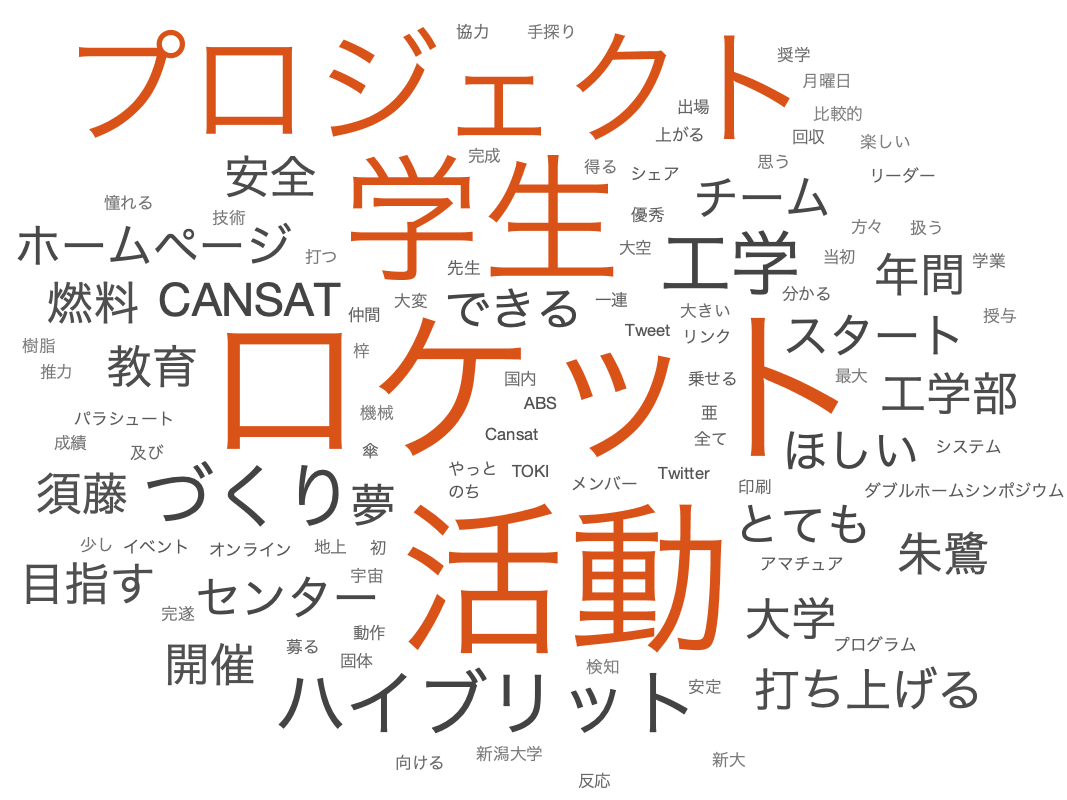
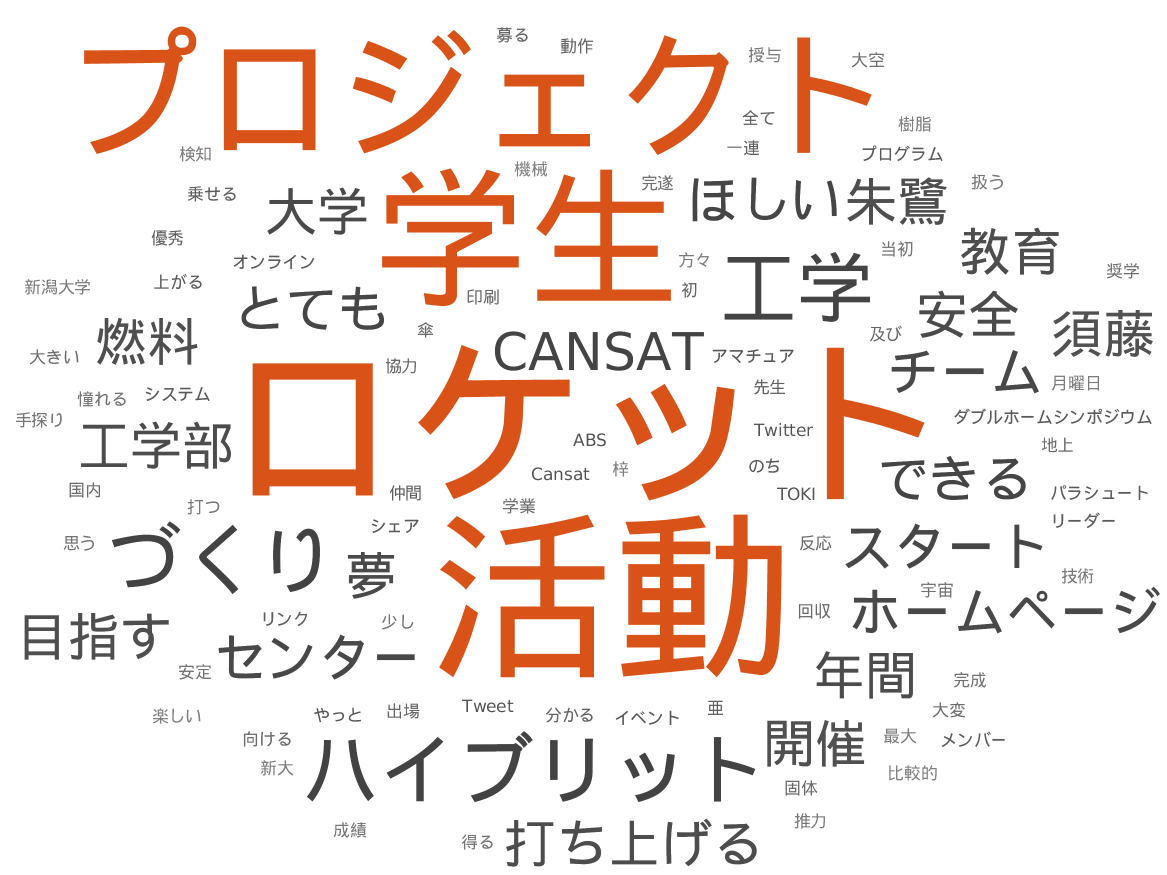
[ci skip]

diff --git a/docs/_posts/2021-08-26-沈み込み帯における二酸化炭素の固定化がマントルの破壊を引き起こす－炭素の循環とプレート境界での地震現象との関係性を示唆－.md b/docs/_posts/2021-08-26-沈み込み帯における二酸化炭素の固定化がマントルの破壊を引き起こす－炭素の循環とプレート境界での地震現象との関係性を示唆－.md
@@ -1,0 +1,7 @@
+---
+layout: post
+title: 沈み込み帯における二酸化炭素の固定化がマントルの破壊を引き起こす－炭素の循環とプレート境界での地震現象との関係性を示唆－
+---
+Autogenerated Word Cloud.
+Source\: [https://www.niigata-u.ac.jp/news/2021/92848/](https://www.niigata-u.ac.jp/news/2021/92848/)
+![WordCloud]({{ site.baseurl }}/assets/d47e320150e877a6f715b0be6292e48d.png)

diff --git a/docs/_posts/2021-08-30-卵巣がんの抗がん剤耐性機序に関与する分子を同定－卵巣がん患者由来の3次元培養細胞を用いた新たな解析手法に基づく成果－.md b/docs/_posts/2021-08-30-卵巣がんの抗がん剤耐性機序に関与する分子を同定－卵巣がん患者由来の3次元培養細胞を用いた新たな解析手法に基づく成果－.md
@@ -1,0 +1,7 @@
+---
+layout: post
+title: 卵巣がんの抗がん剤耐性機序に関与する分子を同定－卵巣がん患者由来の3次元培養細胞を用いた新たな解析手法に基づく成果－
+---
+Autogenerated Word Cloud.
+Source\: [https://www.niigata-u.ac.jp/news/2021/92923/](https://www.niigata-u.ac.jp/news/2021/92923/)
+![WordCloud]({{ site.baseurl }}/assets/a16a157fc4bf322777830e8d264f6df5.png)

diff --git a/docs/_posts/2021-08-26-令和4年度総合型選抜（理学部、工学部）インターネット出願について.md b/docs/_posts/2021-08-26-令和4年度総合型選抜（理学部、工学部）インターネット出願について.md
@@ -1,0 +1,7 @@
+---
+layout: post
+title: 令和4年度総合型選抜（理学部、工学部）インターネット出願について
+---
+Autogenerated Word Cloud.
+Source\: [https://www.niigata-u.ac.jp/news/2021/92791/](https://www.niigata-u.ac.jp/news/2021/92791/)
+![WordCloud]({{ site.baseurl }}/assets/562412ef06acd0b6201a97eee0478c15.png)

diff --git a/docs/_posts/testpage2.md b/docs/_posts/testpage2.md
@@ -1,1 +1,1 @@
- 2771870700
+ 3739140706
